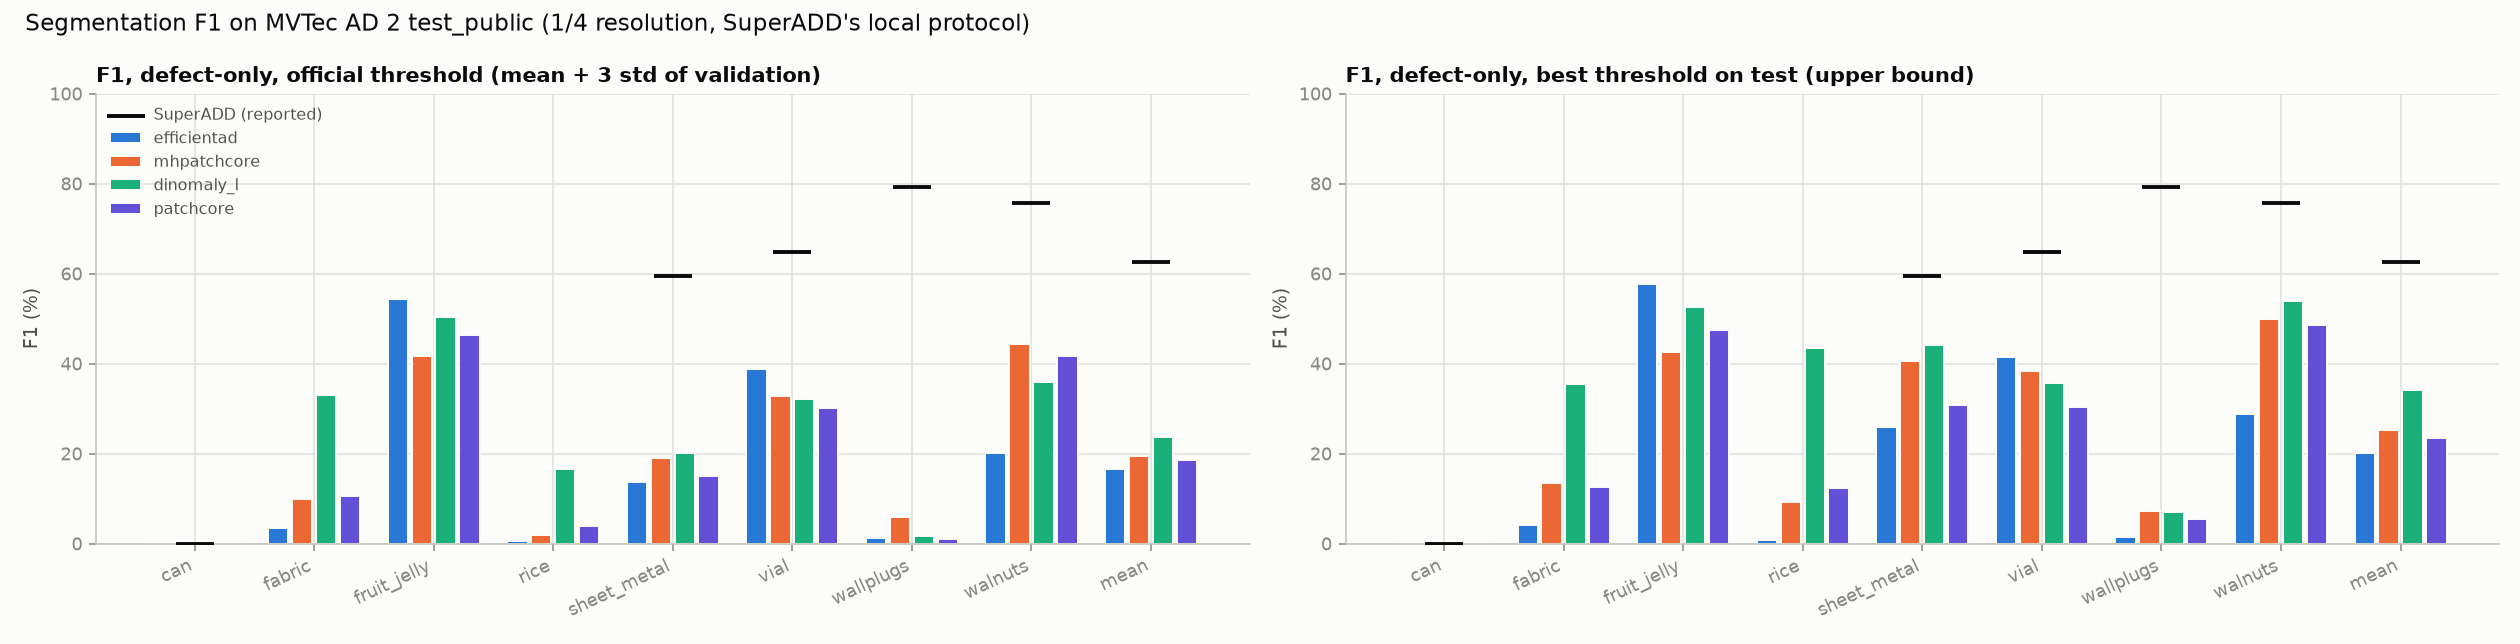
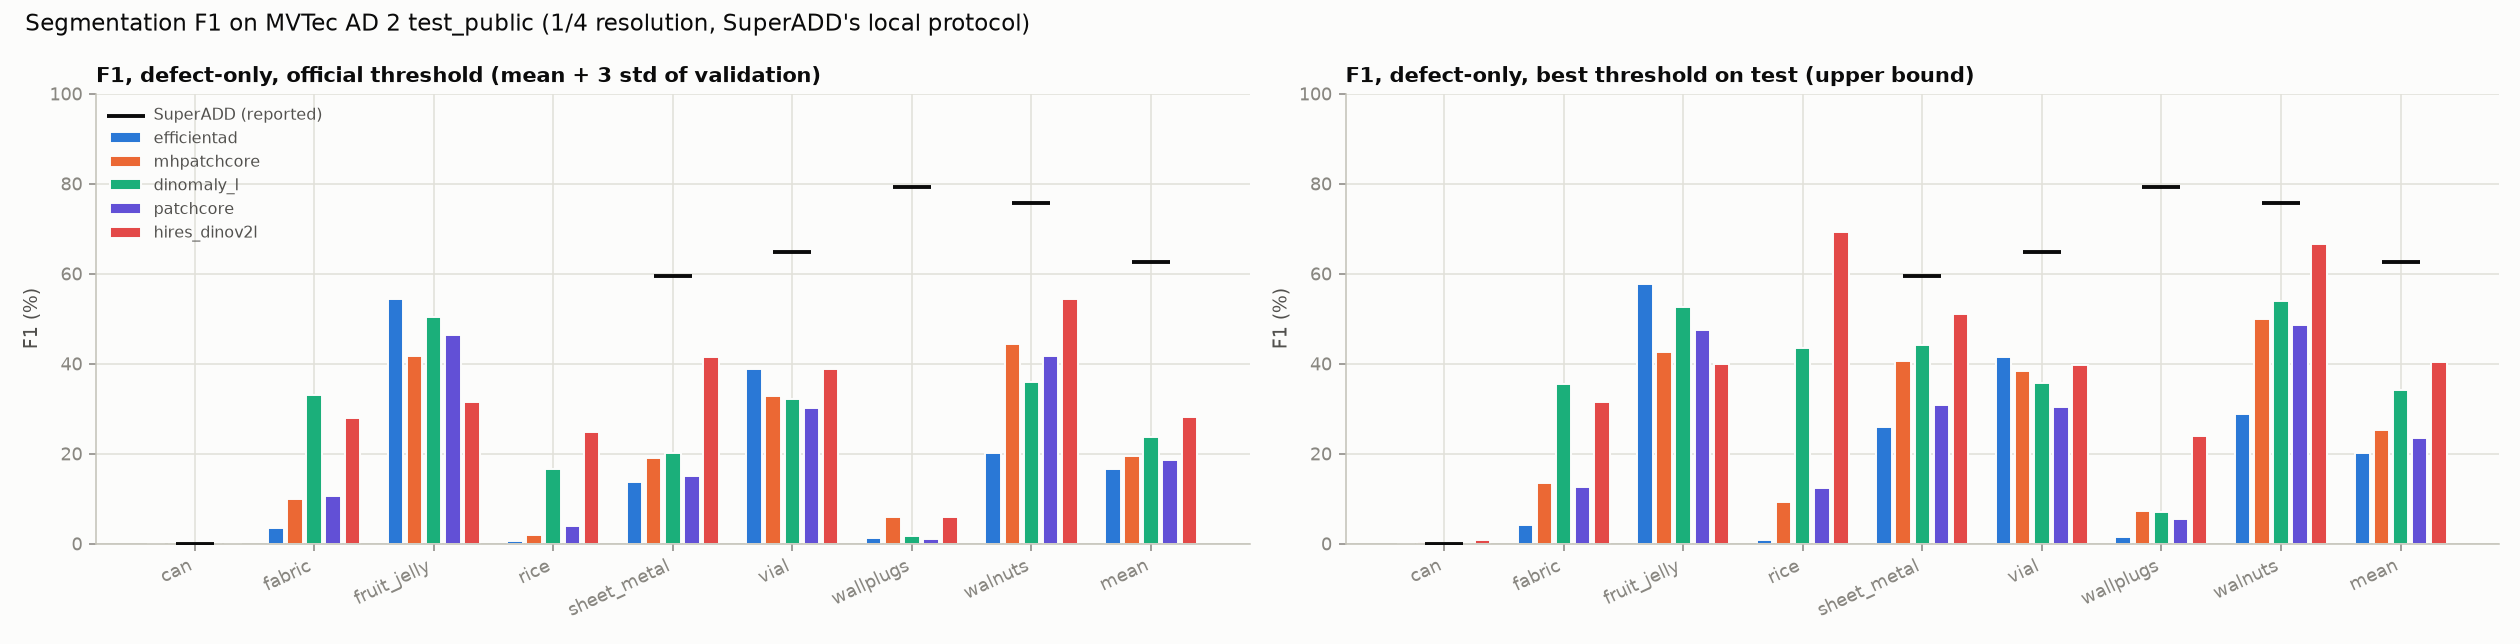
HiResKNN reaches 28.1 segmentation F1 (best so far); switch to the official MVTec AD 2 data (pixel-identical to the mirror)

Changed region(s): [[0.5881, 0.3727, 0.9905, 0.8696], [0.0929, 0.4658, 0.4952, 0.8696], [0.031, 0.3416, 0.0929, 0.3727]]

diff --git a/src/industrial_inspection/plots.py b/src/industrial_inspection/plots.py
@@ -22,7 +22,7 @@ from industrial_inspection.metrics import calibrate_threshold, evaluate_at_thres
 SURFACE, INK, INK2, MUTED, GRID, AXIS = "#fcfcfb", "#0b0b0b", "#52514e", "#898781", "#e1e0d9", "#c3c2b7"
 SERIES = ["#2a78d6", "#eb6834", "#1baf7a", "#eda100", "#e87ba4", "#008300", "#6250d6", "#e34948"]
 # Colour follows the entity, never its rank: a model keeps its slot whatever else is on the figure.
-MODEL_SLOT = {"efficientad": 0, "mhpatchcore": 1, "dinomaly_l": 2, "patchcore": 6, "dinomaly": 4}
+MODEL_SLOT = {"efficientad": 0, "mhpatchcore": 1, "dinomaly_l": 2, "patchcore": 6, "dinomaly": 4, "hires_dinov2l": 7}
 BUDGETS = (0.0, 0.01, 0.05)
 
 

diff --git a/scripts/seg_eval.py b/scripts/seg_eval.py
@@ -84,7 +84,7 @@ def main() -> None:
     with pd.option_context("display.width", 250, "display.float_format", "{:.3f}".format):
         print(df.groupby("model")[cols].mean())
     print(f"SuperADD test_public (defect-only, its own threshold): mean F1 {SUPERADD_PUBLIC_F1['mean']:.2f} %")
-    print("figure:", seg_eval_figure(df, SUPERADD_PUBLIC_F1))
+    print("figure:", seg_eval_figure(df, SUPERADD_PUBLIC_F1, args.out.parent / "figures" / "seg_eval.png"))
 
 
 if __name__ == "__main__":
